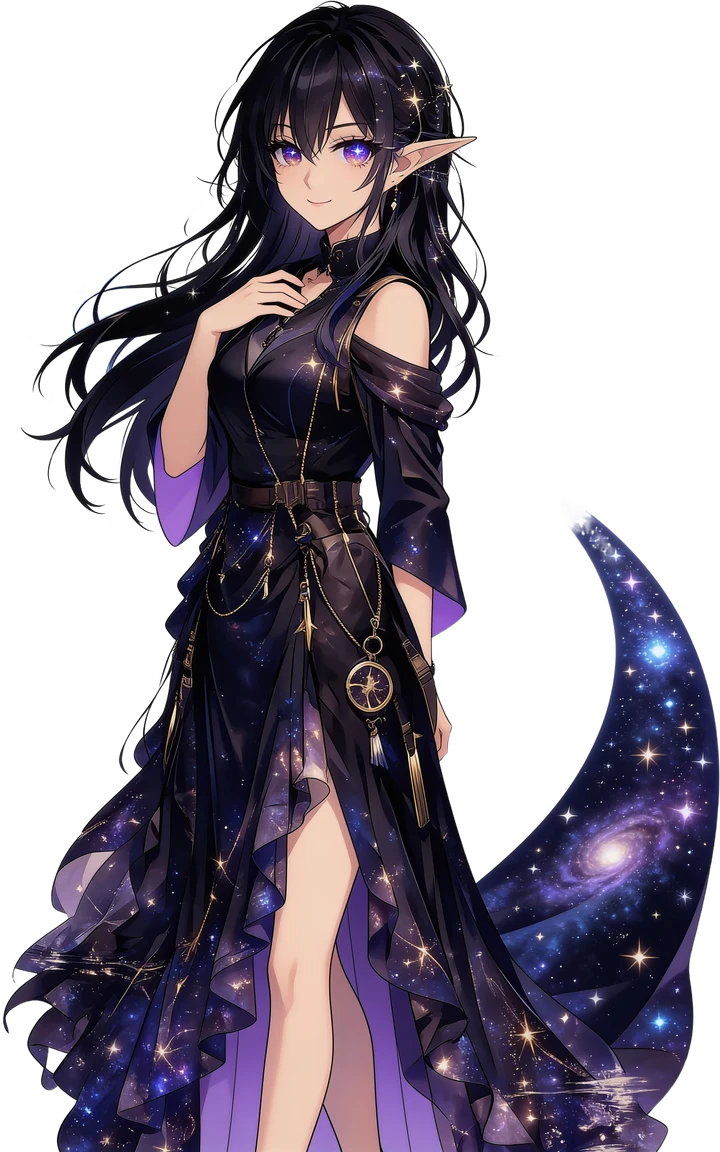
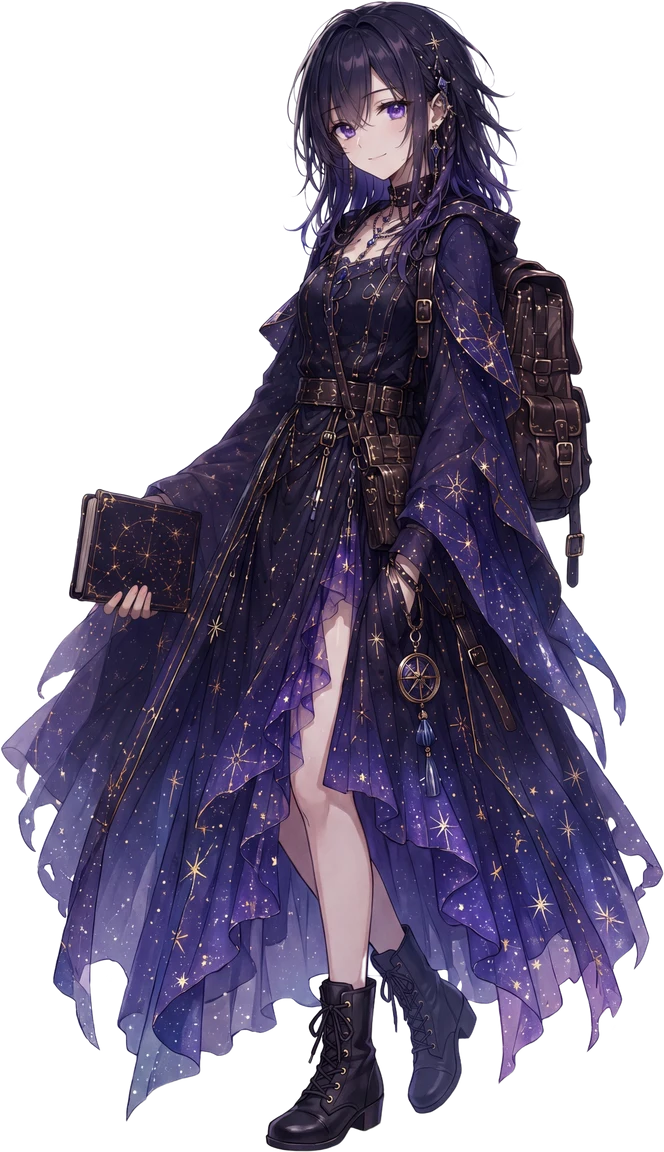
セレスティア新立ち絵を設定資料どおりに作り直し（候補・未結線）
★前案は誤り。ユーザー指摘2件を受けて全面やり直した：
 ①「最高のギャンブラーなのに大学生バックパッカー」というギャップが魅力の中心なのに、
   私が「神眼の存在にリュックは噛み合わない」と誤判断して**撤去**していた＝改悪
   （[[scope-discipline-only-change-asked]] 違反）
 ②モデル選択を確かめずに seedream_v4_5 を使い、品質が低かった

やったこと：
- モデルカタログを実際に確認し **nano_banana_pro（4K・最高品質）** に変更
- 提示された設定資料が images/20_sheet_celestia-galaxy_v5-final.png としてリポジトリに実在したので、
  **シート自体を参照画像に渡して**仕様に忠実化。docs/CAST_ART_BRIEF.md に仕様と不可侵リストを明文化
- 仕様に合わせて直した点：黒〜**星藍のグラデ髪**（三つ編み1本・外ハネ・瞳は隠さない）／
  生命淘汰の**神眼**／星空ドレス（金の星刺繍・革ベルト）／**バックパック**／旅ノート／星のコンパス／
  **黒の編み上げブーツ**（ヒールサンダルではない）／浮遊する星屑は出さない
  （★消失ノイズは電磁ノイズ＝星屑ではない、と資料にある）

未結線の理由は前回と同じ＝表情差分（資料では通常/微笑み/観察/神眼発動/呟き/去る時の6種）の
構図を揃える方法を決めてから差し替える。現行4枚は退避済み。

diff --git a/docs/CAST_ART_BRIEF.md b/docs/CAST_ART_BRIEF.md
@@ -139,3 +139,42 @@
 ## 優先順（上から順に）
 
 ①顧問の表情17枚 → ②背景8枚 → ③stranger → ④ポロ3枚 → ⑤ミミ12枚 → ⑥モブ2枚
+
+---
+
+## ★セレスティアの意匠は「リュック」が核（2026-08-24 ユーザー明示・不可侵）
+
+> ユーザーの言葉：「**最高のギャンブラーなのに見た目はリュックを背負った大学生バックパッカーのようで
+> 不思議な魅力がある**、という設定だったんですが……」
+
+**背負っている旅行リュックは、このキャラのギャップの中心＝魅力そのもの。外してはいけない。**
+2026-08-24 のセッションで「世界の天井・神眼の存在なのに登山リュックは噛み合わない」と誤判断して
+撤去した案を作り、**改悪**と指摘された（[[scope-discipline-only-change-asked]]＝良い既存部分に
+勝手な改善を足さない、の違反）。
+
+作り直すときに守るもの（意匠の不可侵リスト）：
+- 茶革の旅行リュック（ストラップ・ぶら下がるチャーム）★最重要
+- 銀河の生地のガウン／金の鎖と星のコンパス／手の小さな本／黒のヒールサンダル
+- 長い黒髪・尖った耳・落ち着いた含み笑い
+
+直してよいのは**描画の質と顔の可読性だけ**（スマホの縦枠で表情が届かないのが唯一の実害）。
+デザインの引き算をしない。
+
+### セレスティア 設定資料の正本＝`images/20_sheet_celestia-galaxy_v5-final.png`（三面図・表情6種・持ち物つき）
+
+2026-08-24、ユーザーから資料が提示され、こちらの生成が仕様と食い違っていたことが判明した。
+**作る前に必ずこのシートを開く**（生成時は参照画像として渡す＝media_upload → image_references）。
+
+仕様の要点（シートより）：
+- **髪**：黒〜**星藍**のグラデーション／肩下レイヤー／旅で少し乱れた束感／片側だけ耳にかけ／
+  **細い三つ編みを一本**混ぜる／毛先は軽く外ハネ／前髪は目にかかるが**瞳は隠さない**
+- **瞳**：生命淘汰の**神眼**（紫の星のような瞳）
+- **衣装**：星空ドレス（黒〜深紫・金の星刺繍・革ベルト/バックル・金鎖・高スリット）
+- **持ち物**：**バックパック**（旅らしい大きめの鞄）／**旅ノート**（古い革の記録帳）／
+  **星のコンパス**（生命の流れを示す方位磁石）／流星モチーフ（黒い流星）
+- **足元**：**黒の編み上げブーツ**（ヒールサンダルではない）
+- **表情差分は6種**：通常／微笑み／観察／神眼発動（淡）／呟き／去る時
+- **★消失ノイズ**＝世界の修正力による削除信号。**電磁ノイズ／欠損／表示崩れ**（灰白〜透明の水平ノイズ）。
+  **星屑や光粒子ではない**。主人公にだけ見える。通常時は出さない
+- パレット：深夜の黒／星藍／深紫／銀鼠／白昼光／薄灰／暗赤紫
+- 性格：親切で気さく、**距離感がある**。役割＝ブラックメテオ（絶滅の天災）
